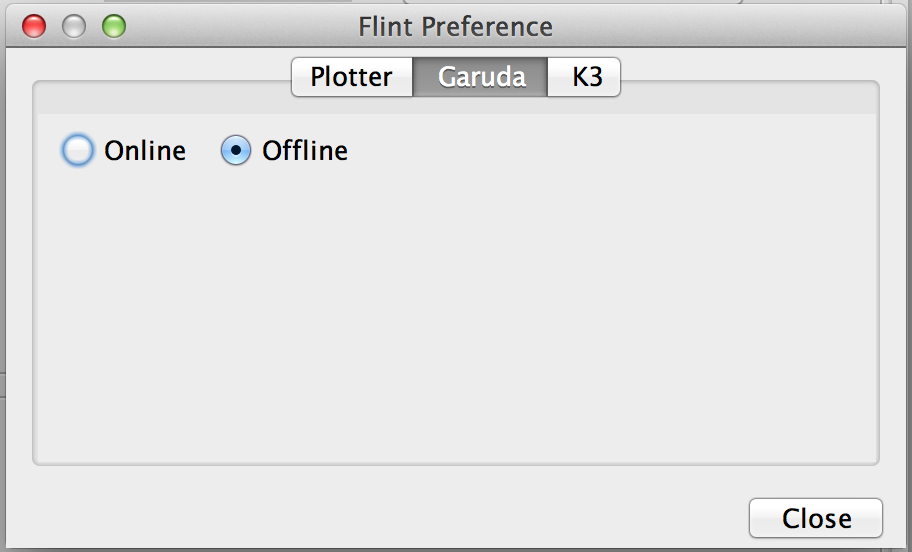
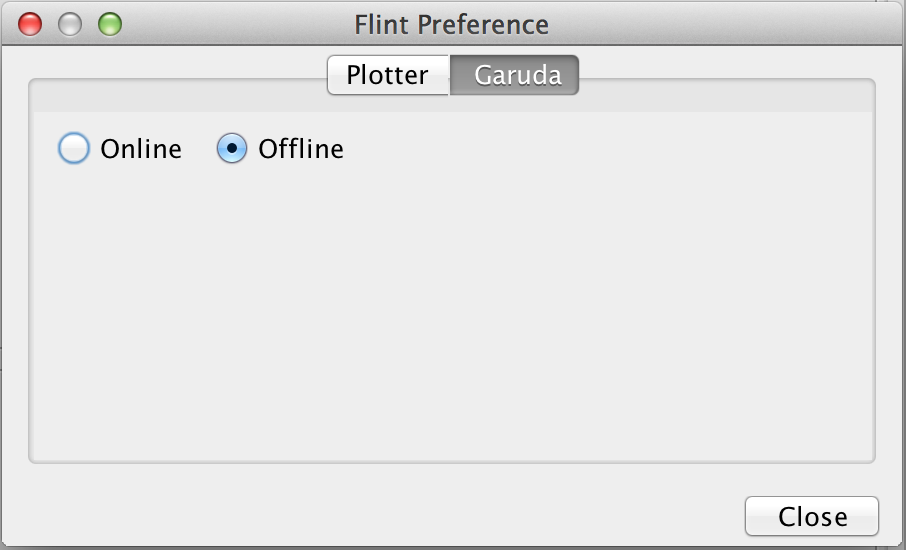
Describe how to submit new job to Flint K3

Changed region(s): [[0.0, 0.0, 1.0, 1.0]]

diff --git a/doc/flint-user-guide.tex b/doc/flint-user-guide.tex
@@ -372,6 +372,23 @@ follows:
 \item Choose a target gadget from the list in the next dialog.
 \end{enumerate}
 
+\section{Flint K3}
+Instead of runnsing simulation with Flint, it is also possible to submit a loaded
+model to Flint K3 (\url{https://flintk3.unit.oist.jp/}) for simulation.
+A K3 account is necessary to use this advanced feature.
+
+\subsection{From menu}
+To submit a model to Flint K3,
+\begin{enumerate}
+\item Load a model
+\item Select the menu ``Control''$\rightarrow$``Send to Flint K3''
+\item Enter the User ID and Password of a K3 account and the title of new job
+  (see Fig.~\ref{fig:new-job-to-k3})
+\item Push button ``Submit''
+\end{enumerate}
+\FigureOfImage{new-job-to-k3}{The ``New job to K3'' dialog.}
+Then a dialog will appear to tell whether it is done successfully or not.
+
 \section{Preference}
 \label{sec:preference}
 Users can customize Flint's preference.
@@ -389,13 +406,6 @@ should be \[{\tt /Applications/gnuplot.app/bin/gnuplot}.\]
 Turning it on makes Flint enabled for the Garuda protocol on the desktop, like
 Fig.~\ref{fig:preference-garuda}.
 \FigureOfImage{preference-garuda}{The ``Garuda'' panel on the preference dialog.}
-
-\subsection{K3}
-Instead of runnsing simulation with Flint, submitting a loaded model to Flint K3
-(\url{https://flintk3.unit.oist.jp/}) for simulation is also possible.
-In order to enable the feature, users must specify its account information at
-this preference in advance, like Fig.~\ref{fig:preference-k3}.
-\FigureOfImage{preference-k3}{The ``K3'' panel on the preference dialog.}
 
 \section{Shortcut keys}
 There are useful shortcut keys as follows:
